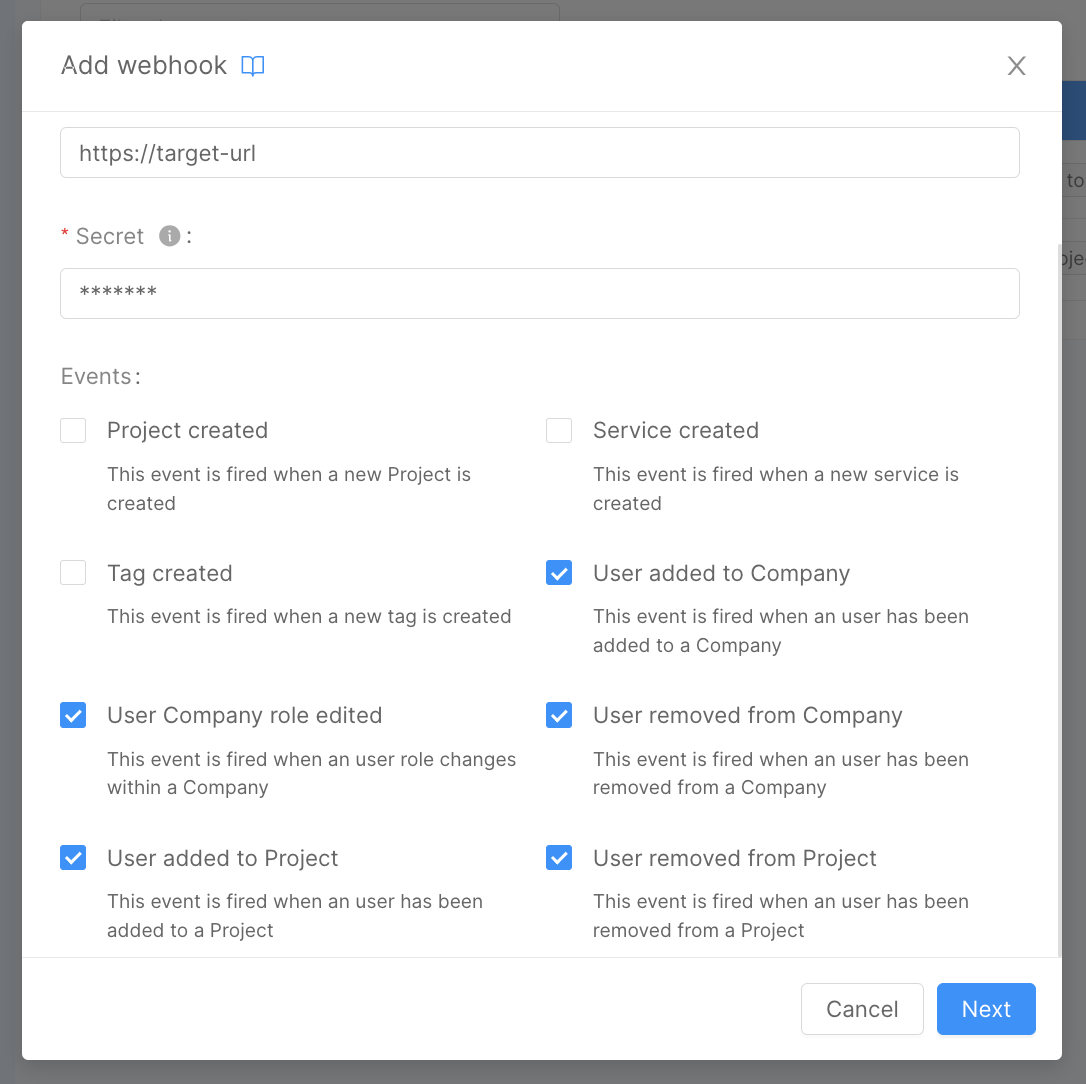
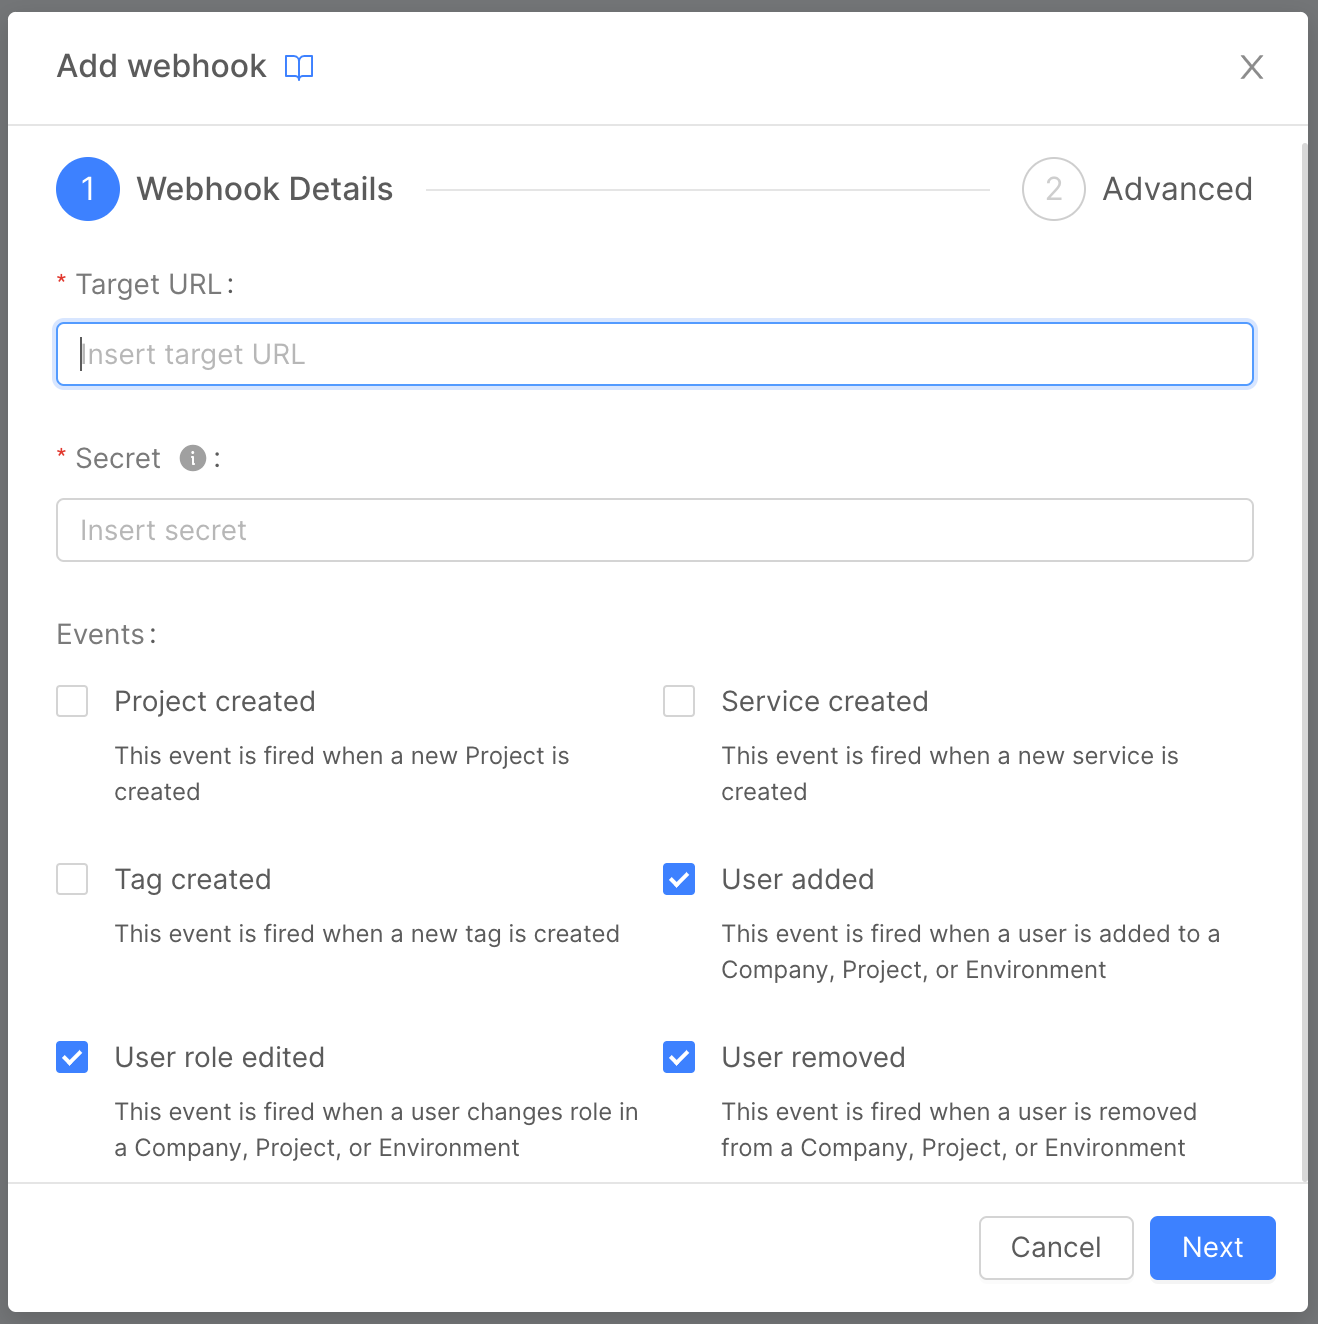
change: release note

diff --git a/docs/release-notes/v12.2.2.md b/docs/release-notes/v12.2.2.md
@@ -1,0 +1,41 @@
+---
+id: v12.2.1
+title: Version 12.2.1 Release Notes
+sidebar_label: v12.2.1
+image: "img/release-note-link-preview.png"
+---
+
+_February 22th, 2024_
+
+## Console
+
+### New User events for the Webhook section
+
+User events have been added that allow a Company Owner to configure and trigger specific webhooks when changes to user access management occur.
+
+Listed below are the events that have been added with this release:
+* User added
+* User edited
+* User removed
+
+<div style={{display: 'flex', justifyContent: 'center'}}>
+  <div style={{display: 'flex', width: '500px'}}> 
+
+![IAM events webhook](./img/iam-events-webhook.png)
+
+  </div>
+</div>
+
+For more information regarding individual events, please [go to the documentation](/development_suite/webhooks-and-events/events.mdx#user-added).
+
+## Fast Data
+
+## Data Catalog
+
+## Microfrontend Composer
+
+## Marketplace
+
+## How to update your Console
+
+For self-hosted installations, please head to the [self hosted upgrade guide](/infrastructure/self-hosted/installation-chart/100-how-to-upgrade.md#v12---version-upgrades) or contact your Mia-Platform referent and upgrade to _Console Helm Chart_ `v12.0.3`.

diff --git a/docs/release-notes/versions.md b/docs/release-notes/versions.md
@@ -7,6 +7,7 @@ slug: "/release-notes/versions"
 ---
 | Release | Release notes                              |
 |---------|--------------------------------------------|
+| v12.2.2 | [Read the release notes](/release-notes/v12.2.2.md) |
 | v12.2.1 | [Read the release notes](/release-notes/v12.2.1.md) |
 | v12.2.0 | [Read the release notes](/release-notes/v12.2.0.md) |
 | v12.1.2 | [Read the release notes](/release-notes/v12.1.2.md) |
